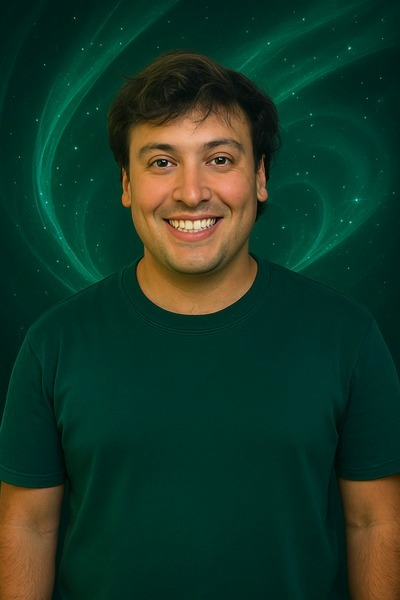
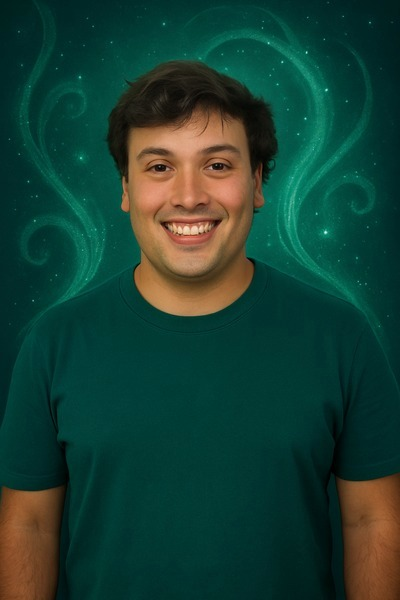
Reprocess Bocha+Javier with color correction, update PHOTO-PROMPT with full pipeline

diff --git a/PHOTO-PROMPT.md b/PHOTO-PROMPT.md
@@ -2,21 +2,29 @@
 
 ## Method
 Use OpenAI `gpt-image-1` image edit API. Send original photo + prompt. Resize result to 400x600.
+**Then always color-correct** using the post-processing script below to match the reference palette.
 
-## Color Reference (Pantone)
-- **Dark background:** `#001A14` (near-black teal)
-- **Mid background:** `#0A3D2E` (dark teal-emerald) ← dominant tone
-- **Bright swirls:** up to `#1A6B4A` (luminous emerald)
-- **NOT pure green, lime, or forest green** — must be blue-toned teal
+## Color Reference (from Nico's reference image)
+Extracted from the approved swirl background sample:
 
-## Prompt (working version — approved 2026-03-29 v3)
+| Layer | Hex | RGB | Description |
+|-------|-----|-----|-------------|
+| Dark (shadows) | `#00221E` | (0, 34, 30) | Near-black teal edges |
+| Mid (base) | `#013A31` | (1, 58, 49) | Dominant background tone |
+| Bright (swirls) | `#096D58` | (9, 109, 88) | Luminous swirl highlights |
+
+**Key metric: B/G ratio ≈ 0.85** (this is what makes it teal vs pure green)
+
+- NOT pure green, lime, or forest green
+- Must be blue-toned teal emerald
+- Reference file: saved in media inbound `5bfe8ac8-97b1-4862-90e2-a630e2715318.jpg`
+
+## Prompt (v4 — approved 2026-03-29)
 
 ```
-Transform this portrait photo for a theater musical website. CRITICAL: preserve the person's exact facial features, mouth shape, expression, eye shape, nose, and skin tone from the original photo — do not alter them.
+Transform this portrait photo for a theater musical website. MOST CRITICAL RULE: preserve the person's EXACT facial features with absolute fidelity — face shape, expression, mouth, eyes, nose, skin tone, facial hair MUST remain identical to the original. Do NOT alter or stylize the face.
 
-BACKGROUND COLOR (must match exactly): Use a dark teal-emerald green background. The dominant background color must be hex #0A3D2E (dark teal-emerald), with darker edges around #001A14 and brighter swirl highlights up to #1A6B4A. Do NOT use pure green, lime green, or forest green — it must be a blue-toned teal emerald green.
-
-Add prominent, luminous swirling magical patterns and sparkles to the background. Change clothing to the same teal-emerald green tone. Professional theatrical headshot with magical Oz / Emerald City theme. Keep the same pose and framing.
+BACKGROUND: Rich dark teal-emerald green with prominent luminous swirling magical patterns and sparkles. The green must be strongly teal (blue-green), NOT pure green. Think deep ocean emerald. Hex reference: dark #00221E, mid #013A31, bright swirls #096D58. Change clothing to same teal-emerald. Magical Oz / Emerald City theme. Keep same pose and framing.
 ```
 
 ## For Isabel Cleffi (Vestuario) — add this to prompt:
@@ -24,25 +32,60 @@ Add prominent, luminous swirling magical patterns and sparkles to the background
 Add subtle wardrobe/costume design elements like golden scissors, thread spools, and measuring tape woven into the background swirl patterns.
 ```
 
-## Code
+## Post-Processing Color Correction (ALWAYS RUN AFTER AI EDIT)
+
 ```python
-import openai, base64
+import numpy as np
 from PIL import Image
-import io
+from scipy.ndimage import gaussian_filter
+
+def color_correct_to_teal(img_path):
+    """Correct green areas to match teal reference (B/G ratio ~0.85)"""
+    img = np.array(Image.open(img_path)).astype(float)
+    h, w = img.shape[:2]
+    
+    # Get current background stats
+    bg = np.concatenate([img[:h//6,:,:].reshape(-1,3), img[:,:w//6,:].reshape(-1,3), img[:,5*w//6:,:].reshape(-1,3)])
+    src_avg = bg.mean(axis=0)
+    
+    # Target B/G ratio from reference
+    TARGET_BG_RATIO = 0.85
+    current_ratio = max(src_avg[2], 1) / max(src_avg[1], 1)
+    
+    # Green-dominant mask (avoids face/skin)
+    g_dom = (img[:,:,1] > img[:,:,0] * 1.2) & (img[:,:,1] > 15)
+    mask = gaussian_filter(g_dom.astype(float), sigma=5)
+    
+    # Boost blue to match teal
+    b_boost = TARGET_BG_RATIO / max(current_ratio, 0.01)
+    corrected = img.copy()
+    corrected[:,:,2] = img[:,:,2] * (1 + (b_boost - 1) * mask)
+    
+    corrected = np.clip(corrected, 0, 255).astype(np.uint8)
+    Image.fromarray(corrected).save(img_path, 'JPEG', quality=92)
+```
+
+## Full Pipeline Code
+```python
+import openai, base64, io
+from PIL import Image
 
 client = openai.OpenAI()
 
+# 1. AI Edit
 response = client.images.edit(
     model="gpt-image-1",
     image=open(INPUT_PATH, "rb"),
     prompt=PROMPT,
     size="1024x1536"
 )
-
 img_data = base64.b64decode(response.data[0].b64_json)
 img = Image.open(io.BytesIO(img_data))
 img = img.resize((400, 600), Image.LANCZOS)
 img.save(OUTPUT_PATH, 'JPEG', quality=92)
+
+# 2. Color correct
+color_correct_to_teal(OUTPUT_PATH)
 ```
 
 ## Output
@@ -52,7 +95,7 @@ img.save(OUTPUT_PATH, 'JPEG', quality=92)
 
 ## Notes
 - Don't try to mask/rembg — the AI edit approach produces much better results
-- The face won't be 100% identical but preserves key features (approved by Nico)
+- The face won't be 100% identical but preserves key features
 - Key: don't change the mouth from original expression
 - Swirls should be prominent and luminous (not subtle)
-- Hex colors in prompt help maintain consistency across all photos
+- **ALWAYS run color correction after AI edit** — the AI doesn't reliably hit the exact teal tone
